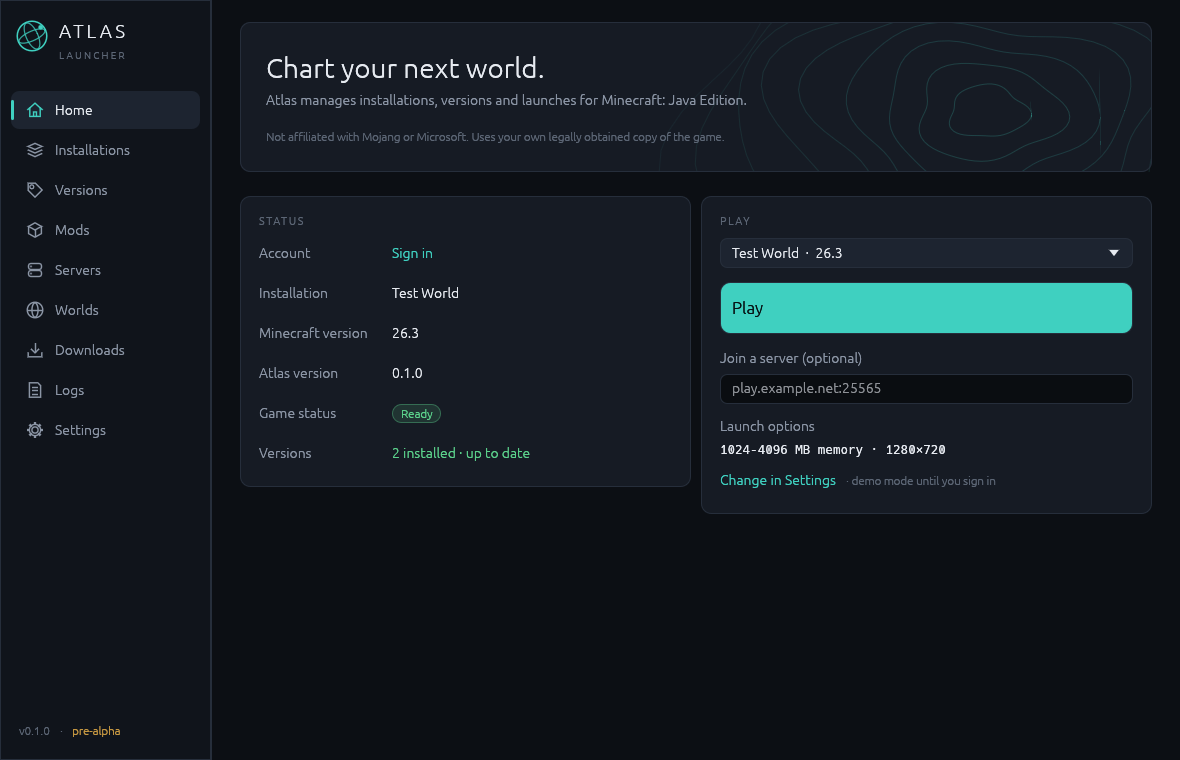
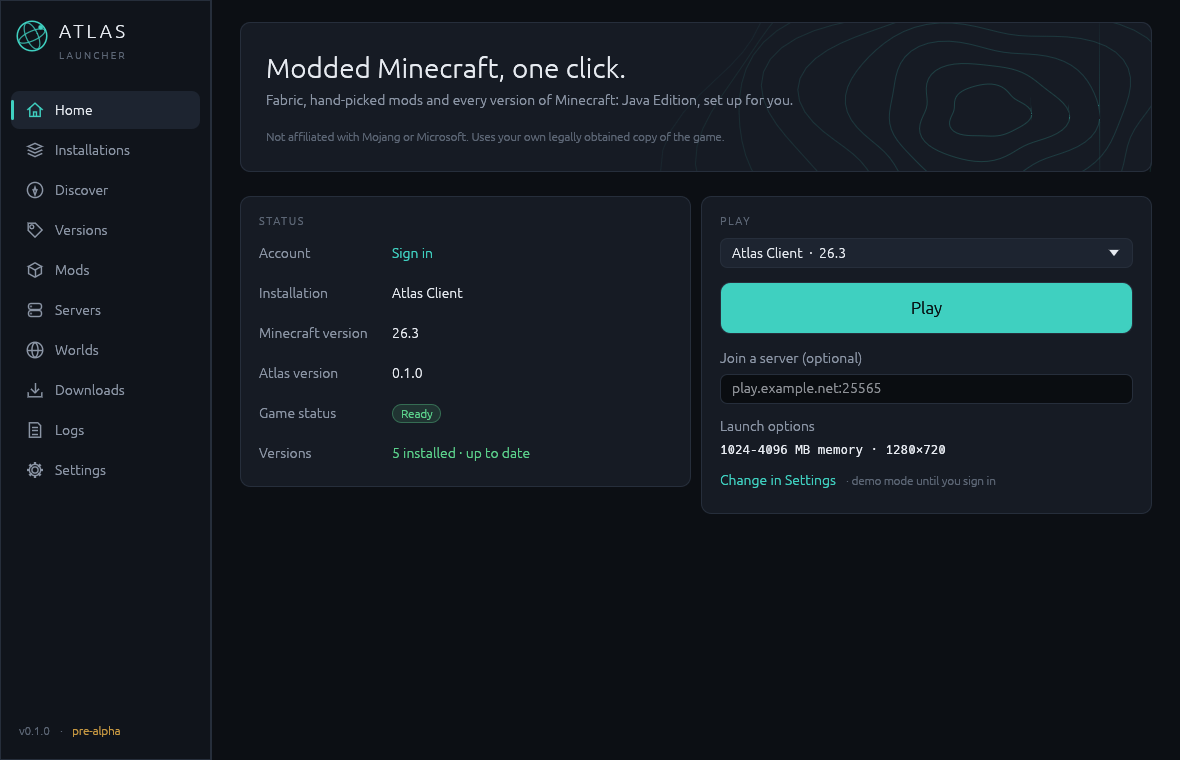
Turn Atlas into a one-click modded launcher
Inspired by Polyfrost's OneLauncher (ideas only, no code: it's GPL):

- Mod loaders: Fabric and Quilt from their official metadata, NeoForge
  and Forge from Modrinth's launcher-meta with the installer steps run
  locally; profiles install like versions and merge onto vanilla at launch
- Every file still verified: Fabric hashes from its meta, Quilt from
  maven .sha1, Forge/NeoForge patches taken from the official installer
- Modrinth: search scoped to the installation, one-click installs with
  required dependencies, sha512 checks, update checks in one request
- Bundles (Performance, Shaders, Quality of life, Info & maps) and a
  Create & play setup on Home; modpack import now sets the loader
- New Discover page, loader pickers, mods update buttons
- CLI: client, search, add, content, bundles, loaders, --loader
- Installers via cargo-packager (NSIS, DMG/.app, deb/AppImage) and
  generated app icons; smaller dev builds

Live tested: Fabric 26.3 with 100 mods loading, NeoForge 1.21.1 through
all installer steps to ModLauncher start.

Claude-Session: https://claude.ai/code/session_01YBz8Mp58M7TtRX55KJZy5Y

diff --git a/faq.html b/faq.html
@@ -20,7 +20,7 @@
 <ul><li><a href="index.html">Home</a></li><li><a href="download.html">Download</a></li><li><a href="faq.html" aria-current="page">FAQ</a></li><li><a href="https://github.com/sayovc/Atlas-Launcher">GitHub</a></li><li><a href="#" data-discord hidden>Discord</a></li></ul>
 </div></header>
 <main>
-<div class="page"><div class="wrap"><div class="prose"><h1>Frequently asked questions</h1><p class="meta">Can't find your answer? Ask on <a href="https://github.com/sayovc/Atlas-Launcher/issues">GitHub</a>.</p><details><summary>Is Atlas free?</summary><p>Yes. Atlas is free and open source under the MIT license.</p></details><details><summary>Do I need to own Minecraft?</summary><p>Yes. Atlas is a launcher, not a copy of the game. To play you need Minecraft: Java Edition on a Microsoft account that owns it. Atlas includes no Mojang game files; it downloads them from Mojang's official servers or reuses files you already have.</p></details><details><summary>Is Atlas official?</summary><p>No. Atlas is an independent project. It isn't made, approved or supported by Mojang or Microsoft, and it isn't affiliated with any other launcher.</p></details><details><summary>Can I play with it?</summary><p>Yes. Atlas installs the game, downloads the right Java and launches it. Until Microsoft sign-in is switched on for Atlas, games start in demo mode.</p></details><details><summary>Does Atlas see my Microsoft password?</summary><p>No. You sign in on Microsoft's own page in your browser. Atlas only gets a token, and it's kept in your system's keychain (Credential Manager, Keychain, or Secret Service on Linux), never in a plain file.</p></details><details><summary>Will Atlas touch my existing Minecraft folder?</summary><p>Atlas keeps all of its data in its own folder. It may read your existing Minecraft folder to reuse files it can verify, but it never writes to or deletes from another launcher's folders.</p></details><details><summary>Do Fabric, Forge or NeoForge mods work?</summary><p>Atlas can manage mod files and import Modrinth modpacks, but it doesn't install the mod loaders themselves yet. It tells you when a pack or mod needs one.</p></details><details><summary>Does Atlas collect data about me?</summary><p>No. Atlas has no telemetry, analytics or ads. See the <a href="privacy.html">privacy policy</a>.</p></details><details><summary>Where does Atlas store its files?</summary><p>In your platform's standard app-data folder: <code>%APPDATA%\\AtlasLauncher</code> on Windows, <code>~/Library/Application Support/AtlasLauncher</code> on macOS, and <code>~/.local/share/atlaslauncher</code> on Linux. You can move it from Settings → Advanced.</p></details><details><summary>How can I help?</summary><p>Report bugs or suggest features on <a href="https://github.com/sayovc/Atlas-Launcher/issues">GitHub Issues</a>, or contribute code by pull request.</p></details></div></div></div>
+<div class="page"><div class="wrap"><div class="prose"><h1>Frequently asked questions</h1><p class="meta">Can't find your answer? Ask on <a href="https://github.com/sayovc/Atlas-Launcher/issues">GitHub</a>.</p><details><summary>Is Atlas free?</summary><p>Yes. Atlas is free and open source under the MIT license.</p></details><details><summary>Do I need to own Minecraft?</summary><p>Yes. Atlas is a launcher, not a copy of the game. To play you need Minecraft: Java Edition on a Microsoft account that owns it. Atlas includes no Mojang game files; it downloads them from Mojang's official servers or reuses files you already have.</p></details><details><summary>Is Atlas official?</summary><p>No. Atlas is an independent project. It isn't made, approved or supported by Mojang or Microsoft, and it isn't affiliated with any other launcher.</p></details><details><summary>Can I play with it?</summary><p>Yes. Atlas installs the game, downloads the right Java and launches it. Until Microsoft sign-in is switched on for Atlas, games start in demo mode.</p></details><details><summary>Does Atlas see my Microsoft password?</summary><p>No. You sign in on Microsoft's own page in your browser. Atlas only gets a token, and it's kept in your system's keychain (Credential Manager, Keychain, or Secret Service on Linux), never in a plain file.</p></details><details><summary>Will Atlas touch my existing Minecraft folder?</summary><p>Atlas keeps all of its data in its own folder. It may read your existing Minecraft folder to reuse files it can verify, but it never writes to or deletes from another launcher's folders.</p></details><details><summary>Do Fabric, Forge or NeoForge mods work?</summary><p>Yes. Atlas installs Fabric, Quilt, NeoForge and Forge for you, and the Discover page finds mods on Modrinth that fit your version and loader. Or just hit Create & play for a ready-made Fabric setup.</p></details><details><summary>Does Atlas collect data about me?</summary><p>No. Atlas has no telemetry, analytics or ads. See the <a href="privacy.html">privacy policy</a>.</p></details><details><summary>Where does Atlas store its files?</summary><p>In your platform's standard app-data folder: <code>%APPDATA%\\AtlasLauncher</code> on Windows, <code>~/Library/Application Support/AtlasLauncher</code> on macOS, and <code>~/.local/share/atlaslauncher</code> on Linux. You can move it from Settings → Advanced.</p></details><details><summary>How can I help?</summary><p>Report bugs or suggest features on <a href="https://github.com/sayovc/Atlas-Launcher/issues">GitHub Issues</a>, or contribute code by pull request.</p></details></div></div></div>
 </main>
 <footer><div class="wrap">
 <div>© <span data-year>2026</span> Atlas Launcher · MIT licensed<br>Not an official Minecraft product. Not approved by or associated with Mojang or Microsoft.</div>

diff --git a/index.html b/index.html
@@ -4,10 +4,10 @@
 <meta charset="utf-8">
 <meta name="viewport" content="width=device-width,initial-scale=1">
 <title>Atlas Launcher</title>
-<meta name="description" content="A fast, open-source Minecraft: Java Edition launcher written in Rust.">
+<meta name="description" content="Modded Minecraft in one click: Fabric, hand-picked mods and every loader, in a fast open-source launcher.">
 <meta name="theme-color" content="#0c0f14">
 <meta property="og:title" content="Atlas Launcher">
-<meta property="og:description" content="A fast, open-source Minecraft: Java Edition launcher written in Rust.">
+<meta property="og:description" content="Modded Minecraft in one click: Fabric, hand-picked mods and every loader, in a fast open-source launcher.">
 <meta property="og:image" content="assets/home.png">
 <link rel="icon" href="assets/favicon.svg" type="image/svg+xml">
 <link rel="stylesheet" href="assets/style.css">
@@ -23,26 +23,26 @@
 <section class="hero2"><canvas id="globe" aria-hidden="true"></canvas>
 <div class="inner">
 <h1 class="title">Atlas</h1>
-<p class="tag">A launcher that's <span class="word" id="word">fast.</span></p>
+<p class="tag">Modded Minecraft in <span class="word" id="word">one click.</span></p>
 <a class="btn primary glow magnetic" href="download.html">Download</a>
 </div><span class="scroll-hint" aria-hidden="true"></span></section>
 
 <div class="stage"><div class="frame"><img src="assets/home.png" alt="Atlas launcher home screen"></div></div>
 
 <div class="tiles">
-<div class="spot"><svg viewBox="0 0 24 24" fill="none" stroke="currentColor" stroke-width="1.8" stroke-linecap="round" stroke-linejoin="round"><path d="M13 2 3 14h9l-1 8 10-12h-9l1-8z"/></svg><b>Native Rust</b><small>Opens fast, uses little memory</small></div>
-<div class="spot"><svg viewBox="0 0 24 24" fill="none" stroke="currentColor" stroke-width="1.8" stroke-linecap="round" stroke-linejoin="round"><path d="M12 22s8-4 8-10V5l-8-3-8 3v7c0 6 8 10 8 10z"/><path d="m9 12 2 2 4-4"/></svg><b>Verified files</b><small>Every download checksummed</small></div>
-<div class="spot"><svg viewBox="0 0 24 24" fill="none" stroke="currentColor" stroke-width="1.8" stroke-linecap="round" stroke-linejoin="round"><path d="M12 2 2 7l10 5 10-5-10-5z"/><path d="m2 17 10 5 10-5"/><path d="m2 12 10 5 10-5"/></svg><b>Many installs</b><small>Each fully separate</small></div>
+<div class="spot"><svg viewBox="0 0 24 24" fill="none" stroke="currentColor" stroke-width="1.8" stroke-linecap="round" stroke-linejoin="round"><path d="M13 2 3 14h9l-1 8 10-12h-9l1-8z"/></svg><b>One click</b><small>Fabric + hand-picked mods, ready to play</small></div>
+<div class="spot"><svg viewBox="0 0 24 24" fill="none" stroke="currentColor" stroke-width="1.8" stroke-linecap="round" stroke-linejoin="round"><path d="M12 22s8-4 8-10V5l-8-3-8 3v7c0 6 8 10 8 10z"/><path d="m9 12 2 2 4-4"/></svg><b>Modrinth built in</b><small>Search, install, update</small></div>
+<div class="spot"><svg viewBox="0 0 24 24" fill="none" stroke="currentColor" stroke-width="1.8" stroke-linecap="round" stroke-linejoin="round"><path d="M12 2 2 7l10 5 10-5-10-5z"/><path d="m2 17 10 5 10-5"/><path d="m2 12 10 5 10-5"/></svg><b>Every loader</b><small>Fabric, Quilt, NeoForge, Forge</small></div>
 <div class="spot"><svg viewBox="0 0 24 24" fill="none" stroke="currentColor" stroke-width="1.8" stroke-linecap="round" stroke-linejoin="round"><circle cx="12" cy="12" r="10"/><path d="M2 12h20"/><path d="M12 2a15 15 0 0 1 0 20 15 15 0 0 1 0-20z"/></svg><b>Open source</b><small>MIT · no telemetry</small></div>
 </div>
 
 <div class="progress"><b>Pre-alpha</b>
 <div class="bar"><i class="done"></i><i class="done"></i><i class="done"></i><i class="done"></i><i class="now"></i></div>
-<small>Everything's in · polishing before the first release</small></div>
+<small>Loaders, bundles and Discover are in · first release soon</small></div>
 <script src="assets/globe.js" defer></script>
 <script>
 (() => {
-  const words = ["fast.", "open.", "yours.", "safe.", "simple."];
+  const words = ["one click.", "seconds.", "any version.", "the open."];
   const el = document.getElementById("word"); let i = 0;
   if (matchMedia("(prefers-reduced-motion: reduce)").matches) return;
   setInterval(() => { i = (i + 1) % words.length; el.textContent = words[i];
